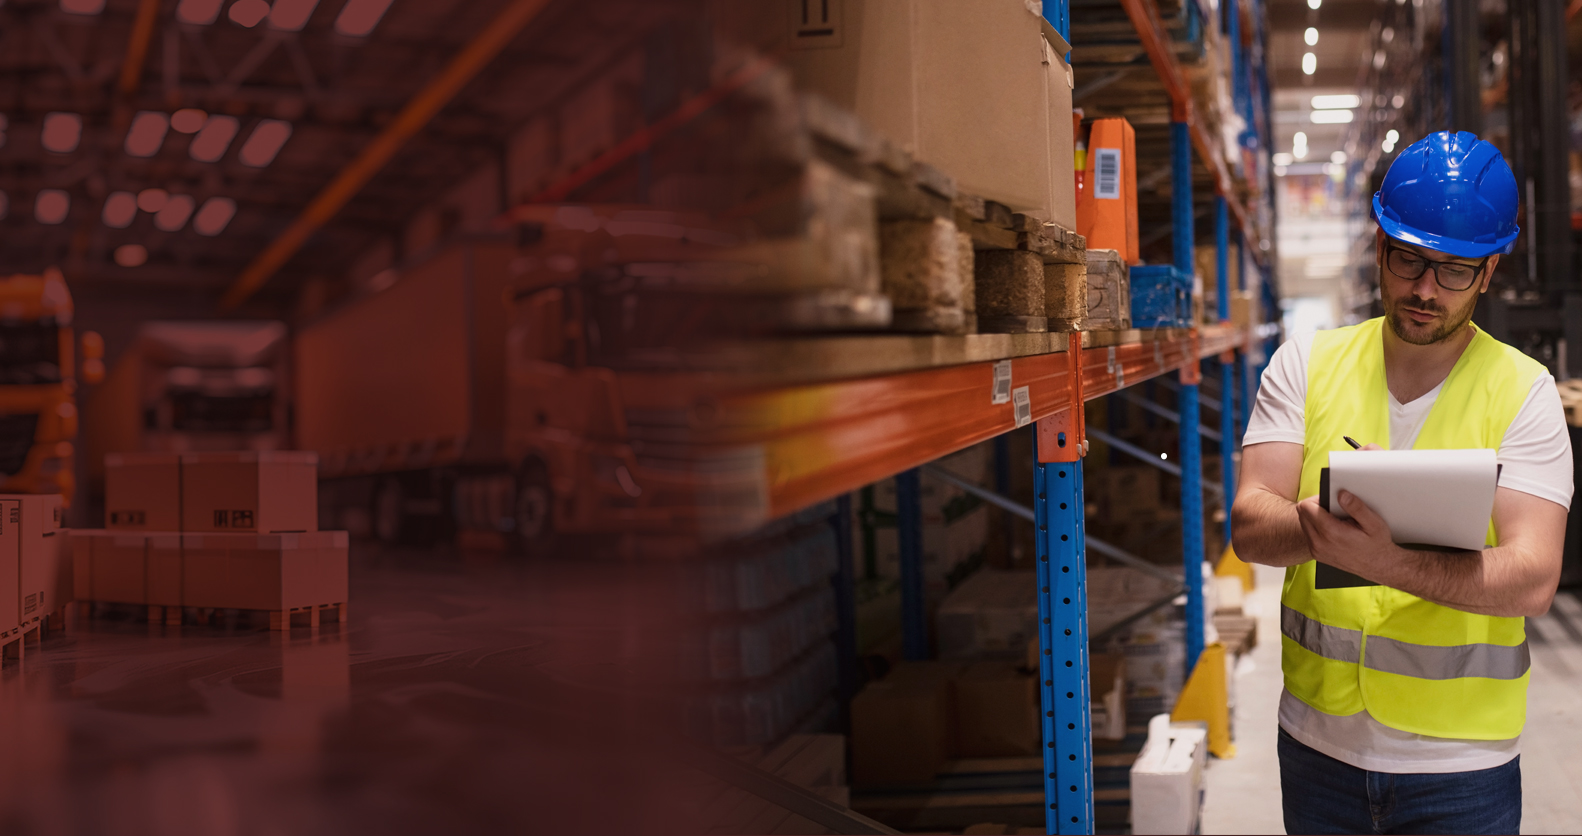
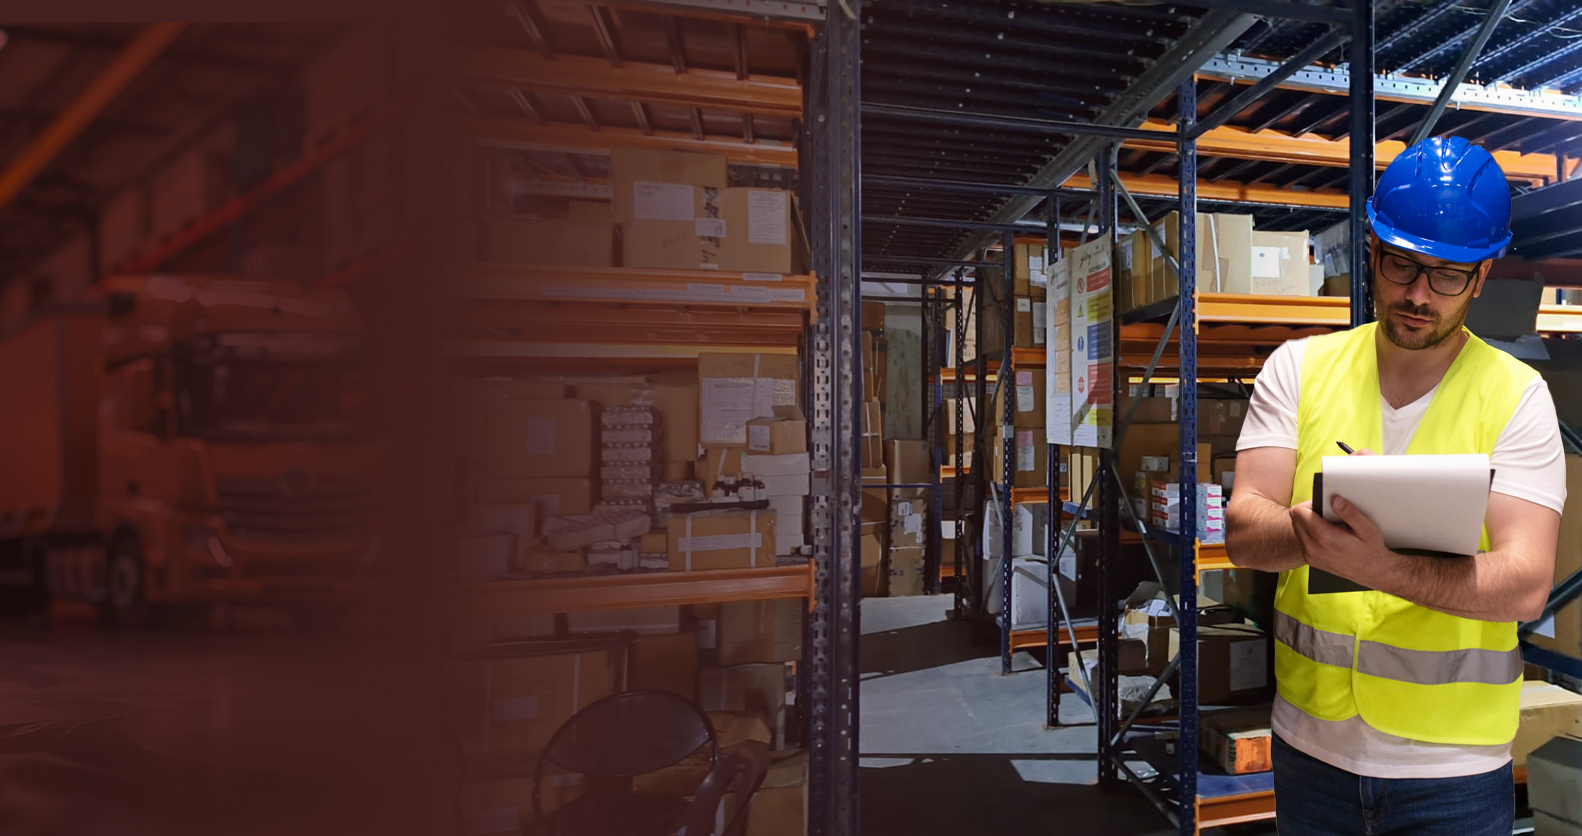
updates

diff --git a/assam-dvdms/css/style.css b/assam-dvdms/css/style.css
@@ -290,7 +290,8 @@ footer .contactdetails{font-size: 14px;}
 .slider-one,
 .slider-two,
 .slider-three,
-.slider-four {
+.slider-four,
+.slider-five {
 	width: 100%;
 	height: 100vh;
 	/* Full viewport height */
@@ -304,18 +305,27 @@ footer .contactdetails{font-size: 14px;}
 .slider-one .slider-two-image,
 .slider-one .slider-three-image,
 .slider-one .slider-four-image,
+.slider-one .slider-five-image,
 .slider-two .slider-one-image,
 .slider-two .slider-two-image,
 .slider-two .slider-three-image,
 .slider-two .slider-four-image,
+.slider-two .slider-five-image,
 .slider-three .slider-one-image,
 .slider-three .slider-two-image,
 .slider-three .slider-three-image,
 .slider-three .slider-four-image,
+.slider-three .slider-five-image,
 .slider-four .slider-one-image,
 .slider-four .slider-two-image,
 .slider-four .slider-three-image,
-.slider-four .slider-four-image {
+.slider-four .slider-four-image,
+.slider-four .slider-five-image,
+.slider-five .slider-one-image,
+.slider-five .slider-two-image,
+.slider-five .slider-three-image,
+.slider-five .slider-four-image,
+.slider-five .slider-five-image {
 	width: 110%;
 	height: 100%;
 	background-image: url("../images/slider/1.jpg");
@@ -329,18 +339,27 @@ footer .contactdetails{font-size: 14px;}
 .slider-one .slider-two-image .slider-text,
 .slider-one .slider-three-image .slider-text,
 .slider-one .slider-four-image .slider-text,
+.slider-one .slider-five-image .slider-text,
 .slider-two .slider-one-image .slider-text,
 .slider-two .slider-two-image .slider-text,
 .slider-two .slider-three-image .slider-text,
 .slider-two .slider-four-image .slider-text,
+.slider-two .slider-five-image .slider-text,
 .slider-three .slider-one-image .slider-text,
 .slider-three .slider-two-image .slider-text,
 .slider-three .slider-three-image .slider-text,
 .slider-three .slider-four-image .slider-text,
+.slider-three .slider-five-image .slider-text,
 .slider-four .slider-one-image .slider-text,
 .slider-four .slider-two-image .slider-text,
 .slider-four .slider-three-image .slider-text,
-.slider-four .slider-four-image .slider-text {
+.slider-four .slider-four-image .slider-text,
+.slider-four .slider-five-image .slider-text,
+.slider-five .slider-one-image .slider-text,
+.slider-five .slider-two-image .slider-text,
+.slider-five .slider-three-image .slider-text,
+.slider-five .slider-four-image .slider-text,
+.slider-five .slider-five-image .slider-text{
 	position: absolute;
 	top: 30%;
 	left: 5%;
@@ -355,18 +374,27 @@ footer .contactdetails{font-size: 14px;}
 .slider-one .slider-two-image .slider-text h1,
 .slider-one .slider-three-image .slider-text h1,
 .slider-one .slider-four-image .slider-text h1,
+.slider-one .slider-five-image .slider-text h1,
 .slider-two .slider-one-image .slider-text h1,
 .slider-two .slider-two-image .slider-text h1,
 .slider-two .slider-three-image .slider-text h1,
 .slider-two .slider-four-image .slider-text h1,
+.slider-two .slider-five-image .slider-text h1,
 .slider-three .slider-one-image .slider-text h1,
 .slider-three .slider-two-image .slider-text h1,
 .slider-three .slider-three-image .slider-text h1,
 .slider-three .slider-four-image .slider-text h1,
+.slider-three .slider-five-image .slider-text h1,
 .slider-four .slider-one-image .slider-text h1,
 .slider-four .slider-two-image .slider-text h1,
 .slider-four .slider-three-image .slider-text h1,
-.slider-four .slider-four-image .slider-text h1 {
+.slider-four .slider-four-image .slider-text h1,
+.slider-four .slider-five-image .slider-text h1,
+.slider-five .slider-one-image .slider-text h1,
+.slider-five .slider-two-image .slider-text h1,
+.slider-five .slider-three-image .slider-text h1,
+.slider-five .slider-four-image .slider-text h1,
+.slider-five .slider-five-image .slider-text h1 {
 	font-size: 2.1rem;
 	margin-bottom: 20px;
 }
@@ -375,18 +403,28 @@ footer .contactdetails{font-size: 14px;}
 .slider-one .slider-two-image .slider-text p,
 .slider-one .slider-three-image .slider-text p,
 .slider-one .slider-four-image .slider-text p,
+.slider-one .slider-five-image .slider-text p,
 .slider-two .slider-one-image .slider-text p,
 .slider-two .slider-two-image .slider-text p,
 .slider-two .slider-three-image .slider-text p,
 .slider-two .slider-four-image .slider-text p,
+.slider-two .slider-five-image .slider-text p,
 .slider-three .slider-one-image .slider-text p,
 .slider-three .slider-two-image .slider-text p,
 .slider-three .slider-three-image .slider-text p,
 .slider-three .slider-four-image .slider-text p,
+.slider-three .slider-five-image .slider-text p,
 .slider-four .slider-one-image .slider-text p,
 .slider-four .slider-two-image .slider-text p,
 .slider-four .slider-three-image .slider-text p,
-.slider-four .slider-four-image .slider-text p {
+.slider-four .slider-four-image .slider-text p,
+.slider-four .slider-five-image .slider-text p,
+.slider-five .slider-one-image .slider-text p,
+.slider-five .slider-two-image .slider-text p,
+.slider-five .slider-three-image .slider-text p,
+.slider-five .slider-four-image .slider-text p,
+.slider-five .slider-five-image .slider-text p
+{
 	font-size: 14px;
 	line-height: 28px;
 }
@@ -431,6 +469,18 @@ footer .contactdetails{font-size: 14px;}
 	animation-delay: 9s;
 }
 
+
+.slider-five {
+	animation: slider-five 12s linear infinite;
+}
+
+.slider-five .slider-five-image {
+	background-image: url("../images/slider/5.jpg");
+}
+
+.slider-five .slider-five-image .slider-text {
+	animation-delay: 12s;
+}
 @keyframes text-up {
 	10% {
 		transform: translateY(0px);
@@ -446,7 +496,6 @@ footer .contactdetails{font-size: 14px;}
 		width: 100%;
 	}
 }
-
 /* Keyframes for slider-one */
 @keyframes slider-one {
 	0% {
@@ -552,6 +601,55 @@ footer .contactdetails{font-size: 14px;}
 		visibility: visible;
 		opacity: 1;
 	}
+	88% {
+		visibility: visible;
+		opacity: 1;
+	}
+	100% {
+		visibility: hidden;
+		opacity: 0;
+	}
+}
+@keyframes slider-five {
+	0% {
+		visibility: hidden;
+		opacity: 0;
+	}
+	25% {
+		visibility: hidden;
+		opacity: 0;
+	}
+	26% {
+		visibility: hidden;
+		opacity: 0;
+	}
+	50% {
+		visibility: hidden;
+		opacity: 0;
+	}
+	51% {
+		visibility: hidden;
+		opacity: 0;
+	}
+	75% {
+		visibility: hidden;
+		opacity: 0;
+	}
+
+	76% {
+		visibility: hidden;
+		opacity: 0;
+	}
+	
+	88% {
+		visibility: hidden;
+		opacity: 0;
+	}
+	89% {
+		visibility: visible;
+		opacity: 1;
+	}
+	
 	100% {
 		visibility: visible;
 		opacity: 1;

diff --git a/assam-dvdms/index.html b/assam-dvdms/index.html
@@ -157,6 +157,23 @@
                 </div>
             </div>
 
+
+            <div class="slider-five">
+                <div class="slider-five-image">
+                    <div class="slider-text">
+                        <h1 class="fw-bold lh-base">Inventory Replenishment
+                        <br>
+                            <span class="fw-semibold">to Health Institutions</span>
+                        </h1>
+                        <p class="fw-light">e-Aushadhi Assam is a web based supply chain management application
+                            deals with Indenting
+                            based procurement, Inventory Management & Distribution of various drugs, sutures and
+                            surgical itemsto various CDS of States, Hospitals, Diagnostic Centre (DC) and Dispensary
+                            (DS) the final consumer of the supply chain.
+                        </p>
+                    </div>
+                </div>
+            </div>
         </div>
     </header>
     <main>
